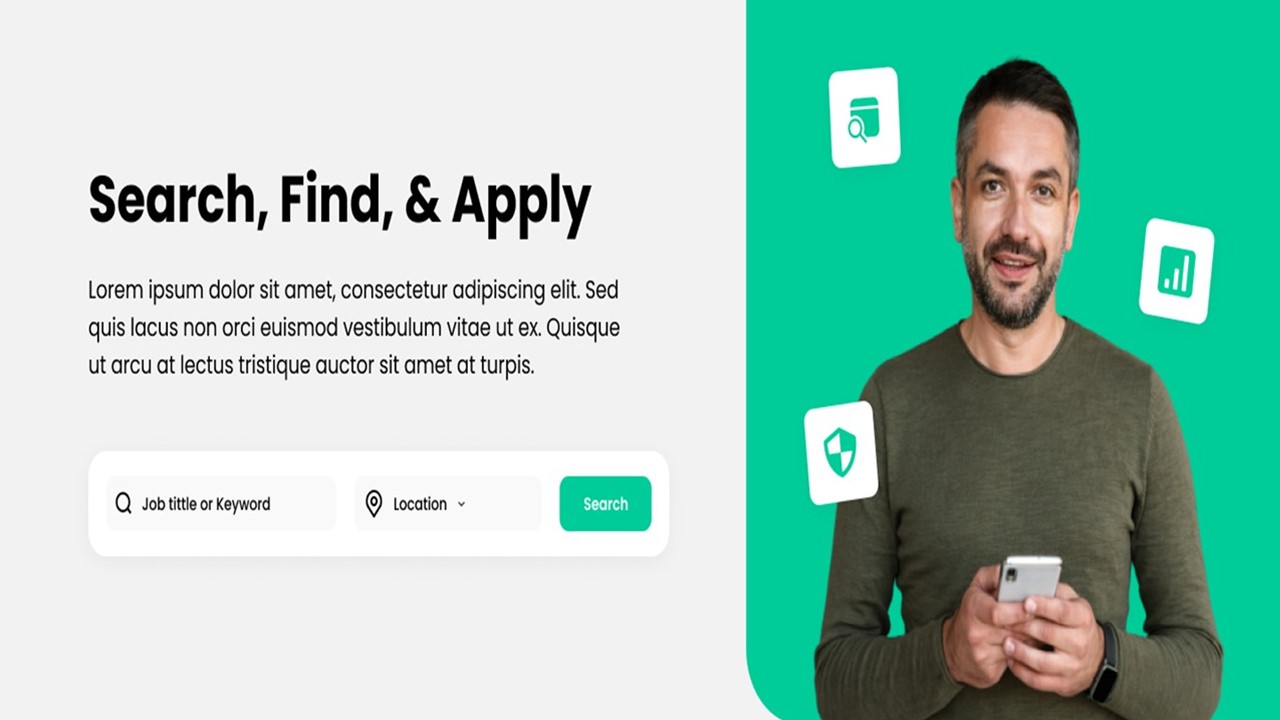
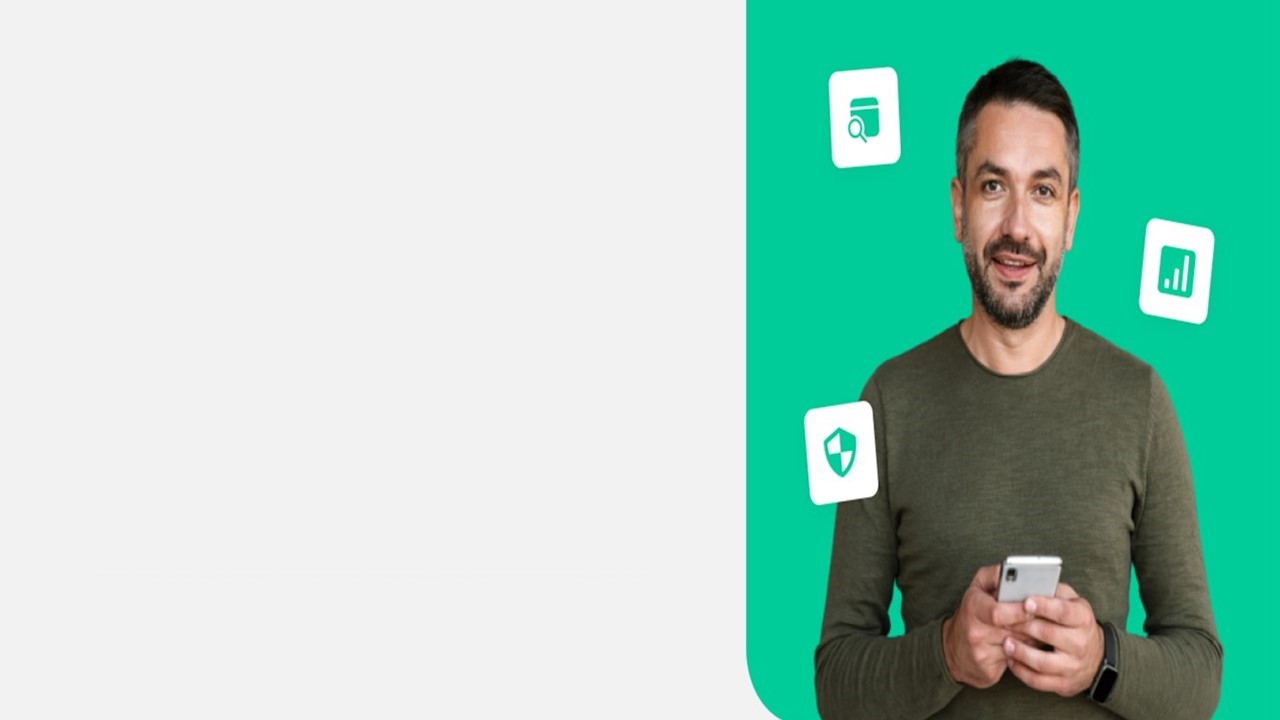
Add files via upload

diff --git a/index.html b/index.html
@@ -30,7 +30,7 @@
             </div>
         </div>
 
-        <div class="navivi">
+        <div class="">
             <nav class="navbar navbar-expand-lg bg-white navbar-light shadow sticky-top p-0">
                 <a href="index.html" class="navbar-brand d-flex align-items-center text-center py-0 px-4 px-lg-5">
                     <h1 class="m-0 text-primary ">JobN<i class="fa fa-xs fa-search text-primary mb-4"></i>w</h1> 
@@ -40,7 +40,7 @@
                 </button>
                 <div class="collapse navbar-collapse" id="navbarCollapse">
                     <div class="navbar-nav ms-auto p-4 p-lg-0">
-                        <a href="index.html" class="nav-item nav-link ">Home</a>
+                        <a href="index.html" class="nav-item nav-link active">Home</a>
                         <a href="index.html" class="nav-item nav-link ">Jobs</a>
                         <a href="index.html" class="nav-item nav-link">About Us</a>
                         <a href="index.html" class="nav-item nav-link">Contact</a>
@@ -51,17 +51,38 @@
                     <a href="" class="btn btn-primary rounded-0 py-4 px-lg-5 d-none d-lg-block">Create Account<i class="fa fa-thin fa-check ms-3"></i></a>
                 </div>  
             </nav>
+            <div class="container-fluid p-0">
+                <div class="owl-carousel header-carousel position-relative">
+                    <div class="owl-carousel-item position-relative">
+                        <img class="img-fluid" src="img/carousel-1.jpg" alt="">
+                        <div class="position-absolute top-0 start-0 w-100 h-100 d-flex align-items-center">
+                            <div class="container">
+                                <div class="row justify-content-start">
+                                    <div class="col-10 col-lg-8">
+                                        <h1 class="display-3 text-dark animated slideInDown mb-4">Search, Find, & Apply</h1>
+                                        <p class="fs-5 fw-medium text-dark mb-4 pb-2">Vero elitr justo clita lorem. Ipsum dolor at sed stet sit diam no. Kasd rebum
+                                           </p>
+                                           <div class="btn-group" role="group" aria-label="Button group with nested dropdown">
+                                            <a href="" class="btn btn-primary py-md-3 px-md-5 me-3 animated slideInLeft">Search</a>
+                                        <a href="" class="btn btn-outline-dark py-md-3 px-md-5 animated slideInRight"><i class="fa fa-xs fa-search text-dark mb-4"></i> Job Title</a>
+                                        <a href="" class="btn btn-outline-dark py-md-3 px-md-5 me-3 animated slideInRight"><i class="fa fa-xs fa-location-arrow text-dark mb-4"></i> Location</a>
+                                        </div>
+                                    </div>
+                                </div>
+                            </div>
+                        </div>
+                    </div>
+       
+       
         </div>
       
-       <div class="">
 
        </div>
-            <img class="responsive" src="img/carousel-1.jpg" alt="ol">
+          
 
-            <br>
-            <br>
-            <br>
-       
+            
+       <br>
+       <br>
     <!-- DITO YUNG MGA BUTTON -->
     <h1 class="text-center mb-5 wow fadeInUp" data-wow-delay="0.1s"> <b>How it works</b></h1>
     <p class="text-center"> Lorem, ipsum dolor sit amet consectetur adipisicing elit. Nisi illo officia amet expedita facere vel tempora, corrupti repellendus architecto quisquam possimus? Laudantium, minus quo consequatur similique necessitatibus sequi accusamus distinctio?Lorem ipsum dolor sit amet consectetur adipisicing elit. Molestiae optio explicabo ducimus, placeat praesentium labore sit corrupti voluptate, tempore necessitatibus voluptas quia facilis? Commodi earum cupiditate magni explicabo, accusantium ipsum.</p>
@@ -118,16 +139,16 @@
                     <div class="col-lg-6 wow fadeIn" data-wow-delay="0.1s">
                         <div class="row g-0 about-bg rounded overflow-hidden">
                             <div class="col-6 text-start">
-                                <img class="img-fluid w-100" src="img/about-1.JPG">
+                                <img class="img-fluid w-100" src="img/about-1.jpg">
                             </div>
                             <div class="col-6 text-start">
-                                <img class="img-fluid" src="img/about-2.JPG">
+                                <img class="img-fluid" src="img/about-2.jpg">
                             </div>
                             <div class="col-6 text-end">
-                                <img class="img-fluid" src="img/about-3.JPG">
+                                <img class="img-fluid" src="img/about-3.jpg">
                             </div>
                             <div class="col-6 text-end">
-                                <img class="img-fluid w-100" src="img/about-4.JPG">
+                                <img class="img-fluid w-100" src="img/about-4.jpg">
                             </div>
                         </div>
                     </div>
@@ -371,7 +392,7 @@
     
 
 
-        <a href="#" class="btn btn-lg btn-primary btn-lg-square back-to-top"><i class="bi bi-arrow-up"></i></a>
+        <a href="#" class="btn btn-lg btn-dark btn-lg-square back-to-top"><i class="bi bi-arrow-up"></i></a>
     </div>
     <script src="https://code.jquery.com/jquery-3.4.1.min.js"></script>
     <script src="https://cdn.jsdelivr.net/npm/bootstrap@5.0.0/dist/js/bootstrap.bundle.min.js"></script>

diff --git a/css/style.css b/css/style.css
@@ -154,7 +154,7 @@
 .page-header .container {
     position: relative;
     padding: 45px 0 45px 35px;
-    border-left: 15px solid var(--primary);
+    
 }
 
 .header-carousel .container::before,
@@ -167,7 +167,7 @@
     left: 0;
     width: 100px;
     height: 15px;
-    background: var(--primary);
+ 
 }
 
 .header-carousel .container::after,
@@ -407,4 +407,7 @@
 }
 .navivi {
     background-color: #2B3940;
+}
+.ratbu {
+    background: var(--primary);
 }
